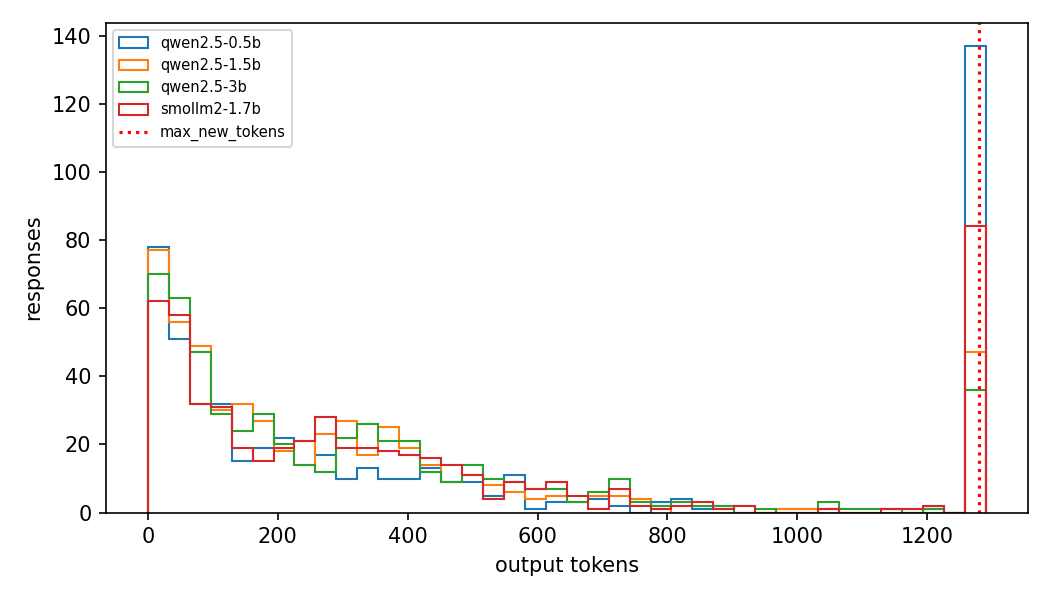
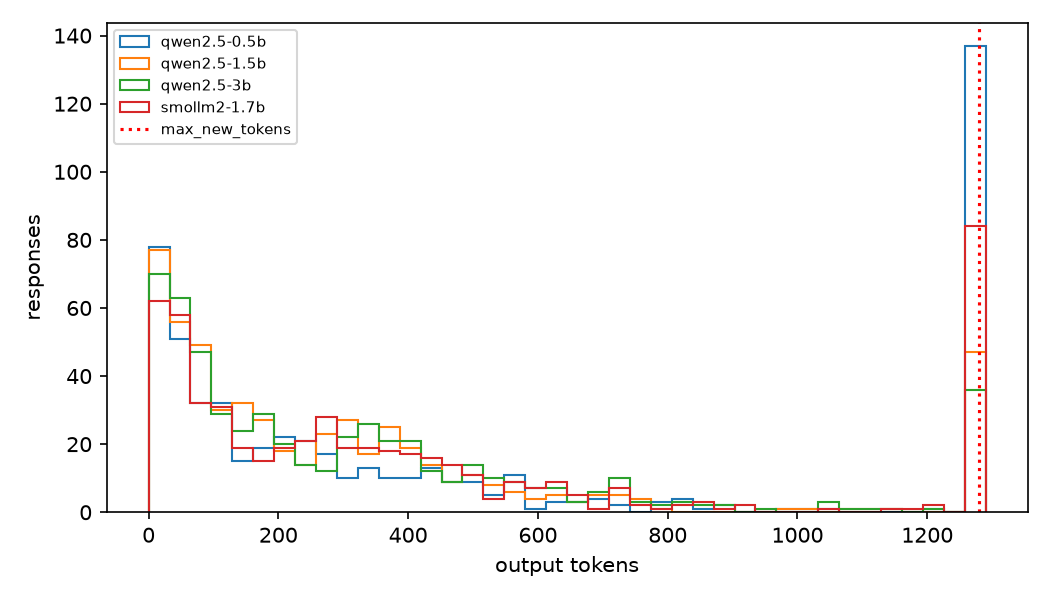
Explicit residual in report; capture full package list in uv venvs; dist-based library versions

diff --git a/ifeval_v100/common.py b/ifeval_v100/common.py
@@ -90,12 +90,19 @@ def load_config() -> dict:
         return yaml.safe_load(f)
 
 
+_DIST = {"absl": "absl-py"}
+
+
 def _version(mod: str):
+    """Installed distribution version (works for packages without __version__, e.g. langdetect)."""
+    from importlib import metadata
     try:
-        m = importlib.import_module(mod)
-        return getattr(m, "__version__", "unknown")
-    except Exception:  # noqa: BLE001
-        return None
+        return metadata.version(_DIST.get(mod, mod))
+    except metadata.PackageNotFoundError:
+        try:
+            return getattr(importlib.import_module(mod), "__version__", "unknown")
+        except Exception:  # noqa: BLE001
+            return None
 
 
 def _cmd(args: list[str]):
@@ -170,3 +177,21 @@ def default_model_set(cfg: dict) -> str:
     if hw == "rtx_8gb":
         return "rtx_8gb"
     return "v100_32gb" if gpu_mem_gb() > 24 else "v100_16gb"
+
+
+def write_freeze(path: Path) -> str:
+    """Full package list. uv-created venvs have no pip, so fall back to `uv pip freeze`,
+    then to importlib.metadata (always available)."""
+    import subprocess
+    for cmd in ([sys.executable, "-m", "pip", "freeze"], ["uv", "pip", "freeze", "--python", sys.executable]):
+        try:
+            out = subprocess.run(cmd, capture_output=True, text=True, timeout=120).stdout
+        except (OSError, subprocess.SubprocessError):
+            out = ""
+        if out.strip():
+            break
+    else:
+        from importlib import metadata
+        out = "".join(sorted(f"{d.metadata['Name']}=={d.version}\n" for d in metadata.distributions()))
+    path.write_text(out)
+    return out

diff --git a/ifeval_v100/analyze.py b/ifeval_v100/analyze.py
@@ -300,8 +300,12 @@ def main():
                  f"{x:.1f}% prompt-level strict ({rng}); the paper reports {pg:.1f}% (GPT-4) and {pp2:.1f}% "
                  f"(PaLM 2 S) for different and larger models. The difference is confounded with model family, "
                  f"scale, precision, chat template and decoding (§6).”")
-    R += ["", "_Residual: see §8b — even with the authors' responses and scorer, loose metrics differ from "
-          "Table 3 by a few tenths of a point; part of every comparison is scorer noise._", ""]
+    R += ["", "**Residual.** What this study accounts for: (a) scorer noise — the original scorer's random "
+          "letter in 2 items moves a score by at most 2/541 = 0.37 pp prompt-level (§8b; removed here by seeding); "
+          "(b) our own run-to-run spread (§2); (c) the chat-template effect on our models (§8a). What it does "
+          "*not* account for: the gap to GPT-4 / PaLM 2 S itself. Model family, scale, serving precision/hardware, "
+          "the API-side prompt format and decoding all differ at once (§6) and none was varied against the "
+          "paper's models, so the whole gap beyond scorer noise and our spread remains unattributed.", ""]
 
     (out / "REPORT.md").write_text("\n".join(R) + "\n", encoding="utf-8")
     plots(cfg, runs, cache, models, H, pt, spread, out)

diff --git a/ifeval_v100/preflight.py b/ifeval_v100/preflight.py
@@ -24,8 +24,7 @@ def main():
     env = common.env_info()
     out = common.RESULTS / "env"
     common.write_json(out / "env.json", env)
-    freeze = subprocess.run([sys.executable, "-m", "pip", "freeze"], capture_output=True, text=True).stdout
-    (out / "pip_freeze.txt").write_text(freeze)
+    common.write_freeze(out / "pip_freeze.txt")
     print(f"GPU: {env.get('gpu_name')} cc={env.get('gpu_capability')} mem={env.get('gpu_mem_gb')}GB "
           f"torch={env['libraries']['torch']} vllm={env['libraries']['vllm']}")
 

diff --git a/results/report/REPORT.md b/results/report/REPORT.md
@@ -162,5 +162,5 @@ Item list: canonical = authors' file at commit 066e1eda (2023-11-27), the list t
 - “Qwen/Qwen2.5-3B-Instruct at revision aa8e725379, float16 on a NVIDIA GeForce RTX 3070 Ti, greedy, template = model's own chat template (`greedy_plain_r0`, final strings in `final_prompts.jsonl`), scored 59.3% prompt-level strict (range [58.2, 59.9] over n=6 greedy runs (repeats + rewordings)); the paper reports 76.9% (GPT-4) and 43.1% (PaLM 2 S) for different and larger models. The difference is confounded with model family, scale, precision, chat template and decoding (§6).”
 - “HuggingFaceTB/SmolLM2-1.7B-Instruct at revision 31b70e2e86, float16 on a NVIDIA GeForce RTX 3070 Ti, greedy, template = model's own chat template (`greedy_plain_r0`, final strings in `final_prompts.jsonl`), scored 47.7% prompt-level strict (range [47.7, 50.1] over n=6 greedy runs (repeats + rewordings)); the paper reports 76.9% (GPT-4) and 43.1% (PaLM 2 S) for different and larger models. The difference is confounded with model family, scale, precision, chat template and decoding (§6).”
 
-_Residual: see §8b — even with the authors' responses and scorer, loose metrics differ from Table 3 by a few tenths of a point; part of every comparison is scorer noise._
+**Residual.** What this study accounts for: (a) scorer noise — the original scorer's random letter in 2 items moves a score by at most 2/541 = 0.37 pp prompt-level (§8b; removed here by seeding); (b) our own run-to-run spread (§2); (c) the chat-template effect on our models (§8a). What it does *not* account for: the gap to GPT-4 / PaLM 2 S itself. Model family, scale, serving precision/hardware, the API-side prompt format and decoding all differ at once (§6) and none was varied against the paper's models, so the whole gap beyond scorer noise and our spread remains unattributed.
 
